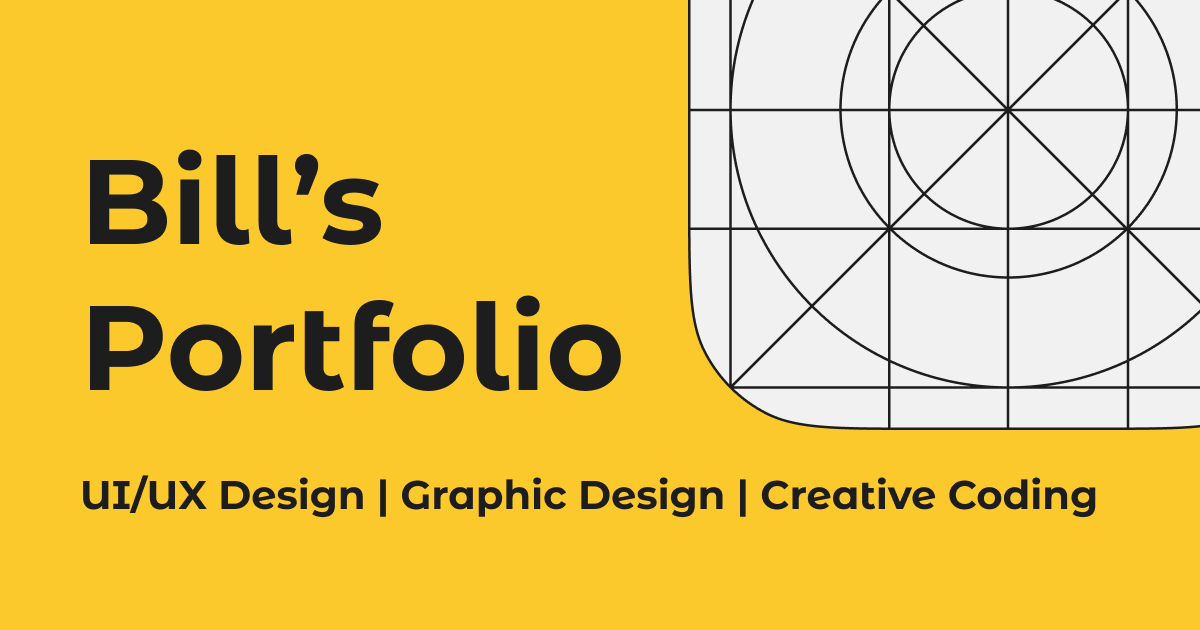
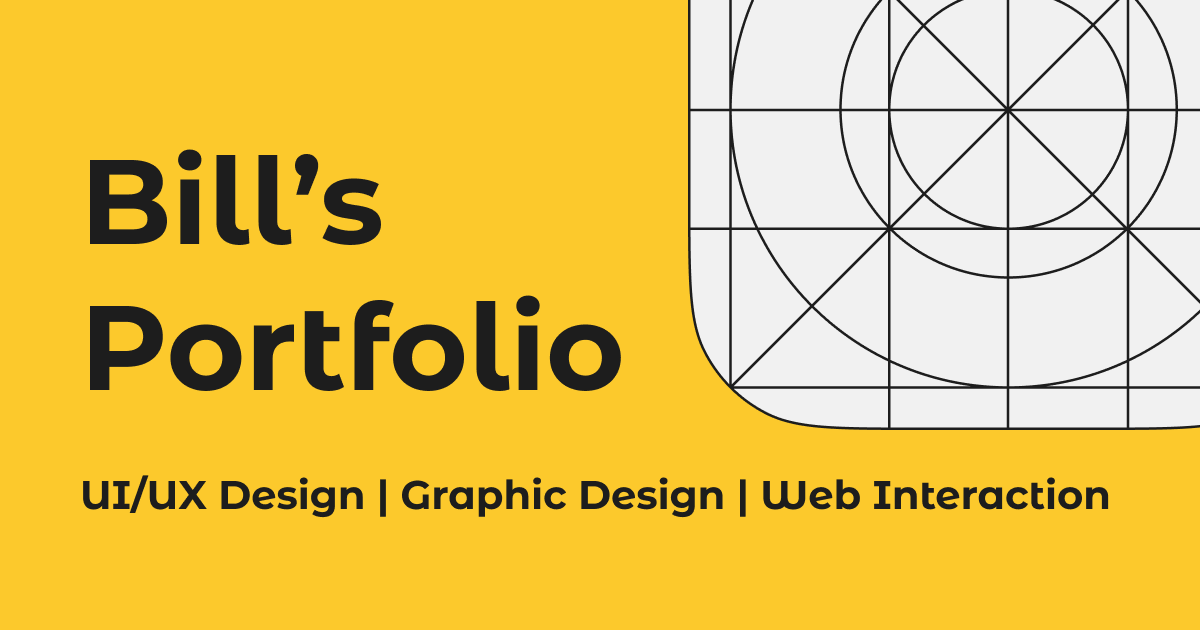
copy: 將 Creative Coding 改為 Visual Explorations／Web Interaction
首頁區塊與 hero 輪播用詞對齊；同步更新 README 與 og.png。

Changed region(s): [[0.6167, 0.754, 0.925, 0.8444]]

diff --git a/src/pages/HomePage.tsx b/src/pages/HomePage.tsx
@@ -7,10 +7,7 @@ import HeroTitleRotator from "../components/HeroTitleRotator";
 import ShowcaseCardDelayed from "../components/ShowcaseCardDelayed";
 import { labProjects } from "../features/lab/lib/registry";
 import { workProjects } from "../features/work/lib/registry";
-import {
-  SITE_TITLE,
-  useDocumentTitle,
-} from "../hooks/useDocumentTitle";
+import { SITE_TITLE, useDocumentTitle } from "../hooks/useDocumentTitle";
 
 const HOME_SECTION_HASHES = new Set(["home-work", "home-lab"]);
 
@@ -134,7 +131,7 @@ export default function HomePage() {
         </div>
       </section>
 
-      {/* Creative Coding & Experiments — ash-700 block, ash-800 cards */}
+      {/* Visual Explorations — ash-700 block, ash-800 cards */}
       <section
         id="home-lab"
         className="section-shell bg-bg-section-alt"
@@ -145,7 +142,7 @@ export default function HomePage() {
             id="home-experiments-heading"
             className="type-section-title section-heading"
           >
-            Creative Coding &amp; Experiments
+            Visual Explorations
           </h2>
           <ul className="showcase-grid">
             {experiments.map((item) => (

diff --git a/src/components/HeroTitleRotator.tsx b/src/components/HeroTitleRotator.tsx
@@ -4,7 +4,7 @@ const HERO_TITLES = [
   "Bill's Portfolio",
   "UI/UX Design",
   "Graphic Design",
-  "Creative Coding",
+  "Web Interaction",
 ] as const;
 
 /** Time each title stays fully visible. */
@@ -87,7 +87,7 @@ export default function HeroTitleRotator() {
           {slides.map((title, i) => (
             <span
               key={`${title}-${i}`}
-              className="flex items-center justify-center whitespace-nowrap leading-none"
+              className="flex items-center justify-center leading-none whitespace-nowrap"
               style={{ height: `${LINE_EM}em` }}
             >
               {title}

diff --git a/README.md b/README.md
@@ -1,6 +1,6 @@
 # Bill's Portfolio
 
-這是我的個人 UI/UX 作品集網站，主要放了商業專案的 Case Study 與一些 Creative Coding 的實驗。專案採用了 Vite + React 框架，並透過 Cursor 輔助開發 (Vibe Coding) 完成網站的建置及部署。
+這是我的個人 UI/UX 作品集網站，主要放了商業專案的 Case Study 與一些視覺與互動實驗。專案採用了 Vite + React 框架，並透過 Cursor 輔助開發 (Vibe Coding) 完成網站的建置及部署。
 
 ## 🛠 Tech Stack
 
